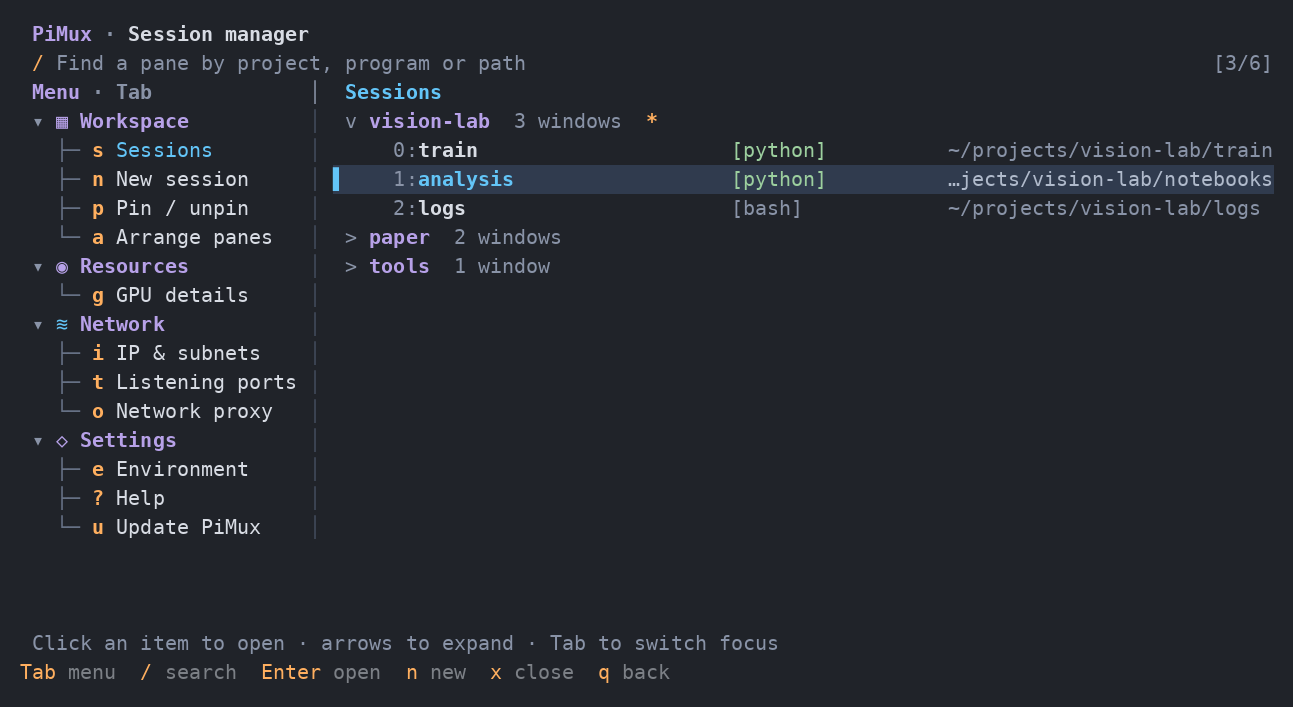
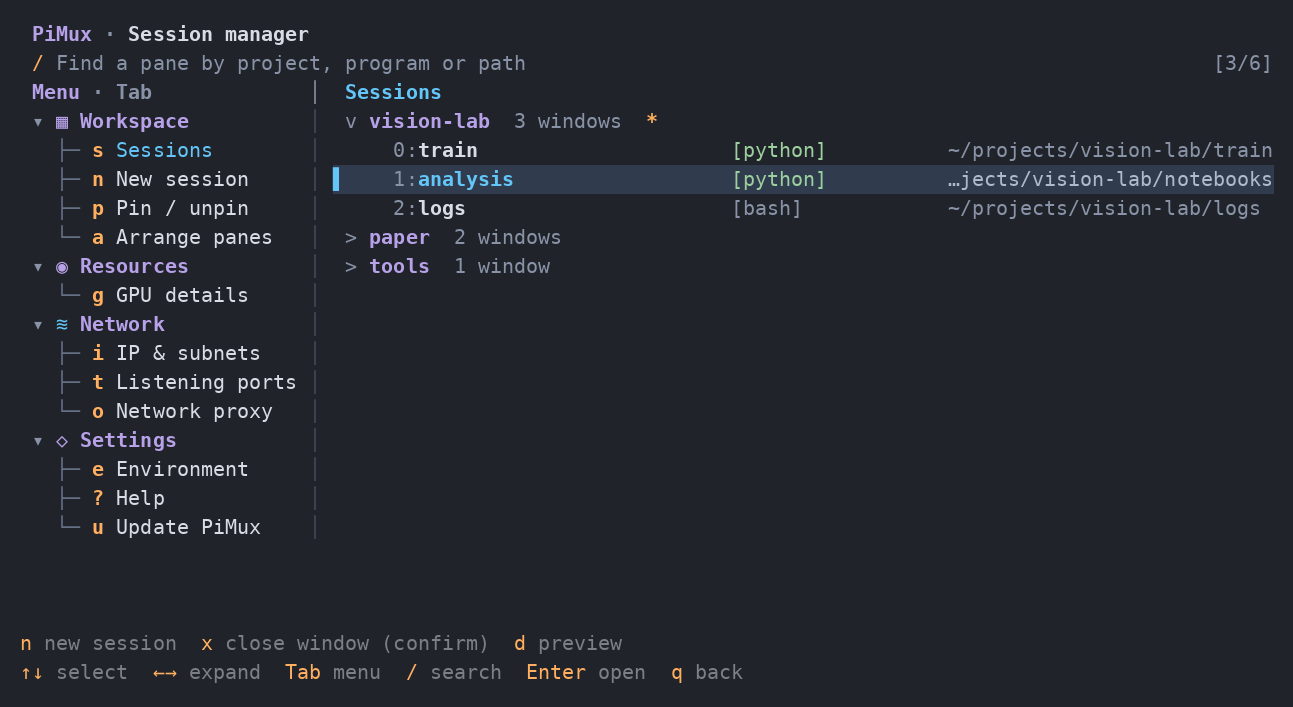
ui: make window and close shortcuts discoverable

Changed region(s): [[0.0, 0.9024, 0.6187, 0.9646]]

diff --git a/lib/utility_ui.py b/lib/utility_ui.py
@@ -28,8 +28,10 @@ def help_blocks(binary, socket):
     return [
         [text(tr("Getting started", "开始使用"), "bold #63c5f8"),
          text(tr("Press Ctrl-a, release it, then press an action key.", "先按 Ctrl-a 并松开，再按操作键。")),
-         text(tr("h opens the menu · / opens this page · x closes the selected pane after confirmation.",
-                 "h 打开菜单 · / 查看帮助 · x 确认后关闭选中的分屏。"))],
+         text(tr("c creates a window · , renames it · x closes the current pane after confirmation.",
+                 "c 新建窗口 · , 重命名窗口 · x 确认后关闭当前分屏。")),
+         text(tr("d detaches and keeps tasks running · h opens the menu · / opens this page.",
+                 "d 离开并保留任务 · h 打开菜单 · / 查看帮助。"), MUTED_STYLE)],
         [text(tr("Nested splits", "连续分屏"), "bold #63c5f8"),
          text(tr("After Ctrl-a, - splits top/bottom and v splits left/right. Repeat inside any selected pane.",
                  "Ctrl-a 后按 - 上下分、v 左右分，可在选中的分屏里继续分割。"))],
@@ -40,8 +42,10 @@ def help_blocks(binary, socket):
                  "其他分屏的错误分别保留；管理列表中按 d 查看各分屏的上次退出码。"))],
         [text(tr("Keyboard shortcuts", "快捷键"), "bold #63c5f8"), *bindings],
         [text(tr("Inside the manager", "管理列表内"), "bold #63c5f8"),
-         text(tr("/ searches panes · arrows select · Enter opens · d previews · n creates · x closes after confirmation.",
-                 "/ 搜索分屏 · 方向键选择 · Enter 直达 · d 预览 · n 新建 · x 确认关闭。"))],
+         text(tr("/ searches panes · arrows select · Enter opens · d previews · n creates a session.",
+                 "/ 搜索分屏 · 方向键选择 · Enter 直达 · d 预览 · n 新建会话。")),
+         text(tr("x closes the selected session, window or pane after confirmation; the action bar names the target.",
+                 "x 确认后关闭选中的会话、窗口或分屏；底部提示会标明对象。"))],
         [text(tr("Main interface", "主界面"), "bold #63c5f8"),
          text(tr("Open pimux; the tree groups Workspace, Resources, Network and Settings.",
                  "打开 pimux，树形菜单按工作区、资源、网络、设置分组。")),

diff --git a/lib/manager_ui.py b/lib/manager_ui.py
@@ -155,15 +155,29 @@ def render(entries, navigation, *, width, height, selected, count, query="", sea
             hints.insert(1, ("←→", tr("edit", "编辑")))
     else:
         hints = [("Tab", tr("menu", "菜单")), ("/", tr("search", "搜索")), ("Enter", tr("open", "进入"))]
-        if width >= 90:
-            hints.extend([("n", tr("new", "新建")), ("x", tr("close", "关闭"))])
         hints.append(("q", tr("back", "返回")))
+        if width >= 80:
+            hints = [("↑↓", tr("select", "选择")), ("←→", tr("expand", "展开")), *hints]
+        elif width >= 65:
+            hints.insert(0, ("↑↓", tr("select", "选择")))
+        else:
+            hints = [("Tab", tr("menu", "菜单")), ("/", tr("find", "搜索")),
+                     ("Enter", tr("open", "进入")), ("q", "")]
     focused = next((entry for entry in entries if entry.selected), None)
     message = text(error, "red") if error else text(
         " " + focused.path if focused and focused.path and main_width < 64 and not nav_focused else
         tr(" Click an item to open · arrows to expand · Tab to switch focus",
            " 点击进入 · 方向键展开 · Tab 切换区域"), MUTED)
     message.no_wrap, message.overflow = True, "ellipsis"
+    if not error and not nav_focused and not searching:
+        actions = [("n", tr("new session", "新建会话"))]
+        if focused:
+            target = (tr("pane", "分屏") if focused.pane else
+                      tr("window", "窗口") if focused.name else tr("session", "会话"))
+            actions.append(("x", tr(f"close {target} (confirm)", f"关闭{target}（确认）")))
+            if focused.name and width >= 80:
+                actions.append(("d", tr("preview", "预览")))
+        message = Group(message, key_hints(actions)) if focused and focused.path and main_width < 64 else key_hints(actions)
     return screen(Group(*body), key_hints(hints), width, height, message=message)
 
 

diff --git a/tests/test_views.py b/tests/test_views.py
@@ -17,6 +17,7 @@ import ports
 import proxy_ui
 import network
 from menu_ui import Menu
+from navigation import visible
 
 
 def network_sample():
@@ -112,7 +113,6 @@ def test_network_clipboard_targets_the_requesting_terminal(monkeypatch):
 def test_tree_menu_expands_groups_and_keeps_hidden_shortcuts(tmp_path):
     result = tmp_path / "selection"
     view = Menu(result)
-    view.on_key("KEY_ENTER")
     assert "workspace" in view.expanded and not result.exists()
     view.on_key("KEY_DOWN")
     view.on_key("KEY_LEFT")
@@ -130,8 +130,11 @@ def test_tree_menu_expands_groups_and_keeps_hidden_shortcuts(tmp_path):
         assert view.on_key(key)
         assert result.read_text().strip() == "split-horizontal"
     view = Menu(result)
+    view.selected = "resources"
+    view.on_key("KEY_ENTER")
     view.render(80, 24)
-    assert view.on_key(SimpleNamespace(name="MOUSE_LEFT", mouse_xy=(8, 4)))
+    index = next(index for index, node in enumerate(visible(view.nodes, view.expanded)) if node.identity == "gpu")
+    assert view.on_key(SimpleNamespace(name="MOUSE_LEFT", mouse_xy=(8, index - view.offset + 2)))
     assert result.read_text().strip() == "gpu"
 
 

diff --git a/lib/menu_ui.py b/lib/menu_ui.py
@@ -16,7 +16,7 @@ class Menu:
     def __init__(self, result, *, pinned=False):
         self.result = Path(result)
         self.nodes = entries("menu", pinned=pinned)
-        self.expanded = {"resources", "network", "settings"}
+        self.expanded = {"workspace"}
         self.selected = "workspace"
         self.offset = 0
         self.page_size = 1

diff --git a/docs/guide.md b/docs/guide.md
@@ -49,6 +49,8 @@ pimux --version
 
 Press `Ctrl-a`, release it, then press the action key. A bright orange badge shows that PiMux is waiting for the next key, alongside common actions. Esc cancels and restores the normal status bar:
 
+New-window, rename and close-pane shortcuts stay visible while waiting, with shorter labels in narrow terminals. Wide terminals also show them beside the current directory during normal use. `Ctrl-a h` opens with Workspace expanded; action keys work directly inside this menu.
+
 | Key | Action |
 |---|---|
 | `h` | Action menu |
@@ -69,7 +71,7 @@ Press `Ctrl-a`, release it, then press the action key. A bright orange badge sho
 
 You can split any selected pane again. For a top pane above two lower panes, press `Ctrl-a`, then `-`; select the lower pane, then press `Ctrl-a`, then `v`. Press and release the prefix for every split. The pipe character `|` still splits left/right; it is different from a backslash `\`.
 
-In the manager, `n` creates a session with the current directory name prefilled: Enter accepts, or edit the name or clear it to cancel. `x` closes the selected item after confirmation, and `q` returns. The GPU popup refreshes every second. Click a card or use the arrows to select a GPU; the wheel moves between rows, and Page Up/Down changes pages. Press `d` for memory capacity, temperature, power and compute processes. Expanded details retain full process paths and show launch commands and working directories when visible to your Linux user. Long lines wrap, and the wheel or Page Up/Down scrolls through all details; arrows still select GPUs. Press `r` to refresh or `q` / Esc to return. Both popups belong to the current client and do not replace another terminal's application pane.
+In the manager, `n` creates a session with the current directory name prefilled: Enter accepts, or edit the name or clear it to cancel. The action bar names the session, window or pane that `x` will close after confirmation; `q` returns. Closing the last pane also closes its window. `Ctrl-a d` detaches while keeping tasks running. The GPU popup refreshes every second. Click a card or use the arrows to select a GPU; the wheel moves between rows, and Page Up/Down changes pages. Press `d` for memory capacity, temperature, power and compute processes. Expanded details retain full process paths and show launch commands and working directories when visible to your Linux user. Long lines wrap, and the wheel or Page Up/Down scrolls through all details; arrows still select GPUs. Press `r` to refresh or `q` / Esc to return. Both popups belong to the current client and do not replace another terminal's application pane.
 
 A **bold, inverted window number** means a PiMux Bash foreground command returned a nonzero exit code. The next successful command in that pane clears its report; another split pane's failure keeps the window highlighted. Ctrl-C counts as cancellation. The indicator follows Bash's command and pipeline status, without interpreting log text. Select a window and press `d` in the manager to see its panes and last exit codes.
 

diff --git a/docs/guide.zh-CN.md b/docs/guide.zh-CN.md
@@ -49,6 +49,8 @@ pimux --version
 
 先按 `Ctrl-a` 并松开，再按操作键。等待按键时，状态栏会显示亮橙底深色字的提示块和常用操作；按 Esc 取消并恢复平时的状态栏：
 
+等待按键时优先显示新建窗口、重命名和关闭分屏，窄终端自动缩短文字。宽终端在平时的路径旁也会展示这些快捷键。`Ctrl-a h` 默认展开工作区，在菜单内直接按操作键即可。
+
 | 键 | 操作 |
 |---|---|
 | `h` | 操作菜单 |
@@ -69,7 +71,7 @@ pimux --version
 
 在任意分屏里都可以继续分割。例如先按 `Ctrl-a`、`-` 上下分，再选中下面一块，按 `Ctrl-a`、`v` 左右分。每次操作都先按并松开 `Ctrl-a`。原来的竖线字符 `|` 也可左右分屏；它与反斜杠 `\` 是不同的字符。
 
-管理列表中按 `n` 新建，默认填入当前目录名；Enter 接受，也可修改或清空取消。`x` 关闭选中项（需确认），`q` 返回。显卡弹窗每秒刷新；点击卡片或按方向键选卡，滚轮切换行，Page Up/Down 翻页。`d` 展开显存容量、温度、功耗和计算进程。详情保留完整进程路径，并在当前 Linux 用户权限允许时显示启动命令与工作目录；长内容自动换行，滚轮或 Page Up/Down 滚动查看全部详情，方向键仍用于选卡。`r` 立即刷新，`q` / Esc 返回。管理列表和显卡详情只在当前客户端弹出，不占用其他终端的应用 pane。
+管理列表中按 `n` 新建会话，默认填入当前目录名；Enter 接受，也可修改或清空取消。底部会标明 `x` 将关闭选中的会话、窗口或分屏（需确认），`q` 返回。关闭最后一个分屏也会关闭窗口；`Ctrl-a d` 则离开并保留任务。显卡弹窗每秒刷新；点击卡片或按方向键选卡，滚轮切换行，Page Up/Down 翻页。`d` 展开显存容量、温度、功耗和计算进程。详情保留完整进程路径，并在当前 Linux 用户权限允许时显示启动命令与工作目录；长内容自动换行，滚轮或 Page Up/Down 滚动查看全部详情，方向键仍用于选卡。`r` 立即刷新，`q` / Esc 返回。管理列表和显卡详情只在当前客户端弹出，不占用其他终端的应用 pane。
 
 窗口编号**加粗并反色**表示 PiMux Bash 中的前台命令返回了非零退出码。同一分屏后续命令成功后恢复；其他分屏仍有错误时，窗口编号继续提示。Ctrl-C 按取消处理。判断遵循 Bash 的命令和管道退出状态，不解析日志。管理列表中选中窗口按 `d`，可以查看各分屏及上次命令退出码。
 

diff --git a/docs/CHANGELOG.md b/docs/CHANGELOG.md
@@ -1,5 +1,12 @@
 # Changelog
 
+## 0.9.2
+
+- Show new-window, rename and close-pane shortcuts in the normal footer on wide terminals and prioritize them while Ctrl-a is active. Fit prefix hints to the available width and reserve path space from the rendered labels.
+- Open the action menu with Workspace expanded so common operations are immediately visible.
+- Keep new-session and close hints visible in the manager, including narrow terminals. Name the selected session, window or pane as the close target and show that confirmation is required.
+- Update help and screenshots to distinguish closing a pane from detaching and keeping tasks running.
+
 ## 0.9.1
 
 - Add Ctrl-a v for left/right splits without Shift; keep the pipe shortcut and show the letter key in the action menu and prefix hints.
